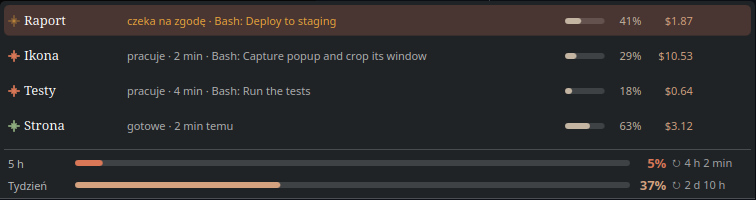
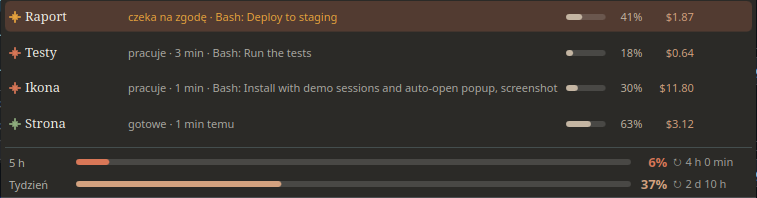
Paint the popup in the Claude style too
The session list gets the bar's warm background, drawn over the dialog's padding, and cream text whatever the Plasma theme.

diff --git a/plasmoid/contents/ui/main.qml b/plasmoid/contents/ui/main.qml
@@ -413,144 +413,162 @@ PlasmoidItem {
     }
 
     // One-line rows with fixed column widths: nothing moves on hover or on refresh.
-    fullRepresentation: ColumnLayout {
+    fullRepresentation: Item {
+        id: popup
         readonly property real unit: Kirigami.Units.gridUnit
         // As wide as the bar, but not narrower than the list needs nor wider than reads well.
         readonly property real fit: Math.max(unit * 25, Math.min(root.barWidth, unit * 44))
         Layout.minimumWidth: fit
         Layout.maximumWidth: fit
-        spacing: Kirigami.Units.smallSpacing
-
-        PlasmaComponents3.Label {
-            visible: root.listed.length === 0
-            text: T.tr("No active session")
-            opacity: 0.6
+        Layout.minimumHeight: list.implicitHeight
+        Layout.preferredHeight: list.implicitHeight
+        // The Claude style paints the popup like the bar, over the dialog's own padding, with
+        // cream text whatever the Plasma theme.
+        Binding { target: popup.Kirigami.Theme; property: "textColor"; value: root.ink; when: root.claude }
+        Rectangle {
+            anchors.fill: parent
+            anchors.margins: -Kirigami.Units.largeSpacing
+            visible: root.claude
+            color: "#2b2a27"
+            radius: Kirigami.Units.cornerRadius
         }
-        Repeater {
-            model: root.listed.length
-            delegate: MouseArea {
-                id: entry
-                required property int index
-                readonly property var item: root.listed[index] || ({})
-                readonly property bool current: !!root.lead && item.id === root.lead.id
-                readonly property real unit: Kirigami.Units.gridUnit
-                Layout.fillWidth: true
-                Layout.preferredHeight: unit * 1.7
-                readonly property bool pinned: root.picked !== "" && root.picked === item.id
-                hoverEnabled: true
-                cursorShape: Qt.PointingHandCursor
-                onClicked: root.openChat(item.id)
 
-                Rectangle {
-                    anchors.fill: parent
-                    radius: Kirigami.Units.cornerRadius
-                    color: root.claude ? root.sky : Kirigami.Theme.highlightColor
-                    opacity: entry.current ? 0.22 : entry.containsMouse ? 0.1 : 0
-                    border.width: entry.pinned ? 1 : 0
-                    border.color: root.claude ? root.sky : Kirigami.Theme.highlightColor
-                }
-                PlasmaComponents3.ToolTip { text: entry.item.project + " · " + root.modelName(entry.item.model); visible: entry.containsMouse && !edit.visible }
+        ColumnLayout {
+            id: list
+            anchors.fill: parent
+            spacing: Kirigami.Units.smallSpacing
 
-                RowLayout {
-                    anchors.fill: parent
-                    anchors.leftMargin: Kirigami.Units.smallSpacing; anchors.rightMargin: 2
-                    spacing: Kirigami.Units.smallSpacing
-                    Dot { mode: entry.item.state || "idle"; spark: root.claude; size: root.claude ? 12 : 9 }
-                    Item {
-                        Layout.preferredWidth: entry.unit * 5.5
-                        Layout.fillHeight: true
+            PlasmaComponents3.Label {
+                visible: root.listed.length === 0
+                text: T.tr("No active session")
+                opacity: 0.6
+            }
+            Repeater {
+                model: root.listed.length
+                delegate: MouseArea {
+                    id: entry
+                    required property int index
+                    readonly property var item: root.listed[index] || ({})
+                    readonly property bool current: !!root.lead && item.id === root.lead.id
+                    readonly property real unit: Kirigami.Units.gridUnit
+                    Layout.fillWidth: true
+                    Layout.preferredHeight: unit * 1.7
+                    readonly property bool pinned: root.picked !== "" && root.picked === item.id
+                    hoverEnabled: true
+                    cursorShape: Qt.PointingHandCursor
+                    onClicked: root.openChat(item.id)
+
+                    Rectangle {
+                        anchors.fill: parent
+                        radius: Kirigami.Units.cornerRadius
+                        color: root.claude ? root.sky : Kirigami.Theme.highlightColor
+                        opacity: entry.current ? 0.22 : entry.containsMouse ? 0.1 : 0
+                        border.width: entry.pinned ? 1 : 0
+                        border.color: root.claude ? root.sky : Kirigami.Theme.highlightColor
+                    }
+                    PlasmaComponents3.ToolTip { text: entry.item.project + " · " + root.modelName(entry.item.model); visible: entry.containsMouse && !edit.visible }
+
+                    RowLayout {
+                        anchors.fill: parent
+                        anchors.leftMargin: Kirigami.Units.smallSpacing; anchors.rightMargin: 2
+                        spacing: Kirigami.Units.smallSpacing
+                        Dot { mode: entry.item.state || "idle"; spark: root.claude; size: root.claude ? 12 : 9 }
+                        Item {
+                            Layout.preferredWidth: entry.unit * 5.5
+                            Layout.fillHeight: true
+                            PlasmaComponents3.Label {
+                                anchors.fill: parent
+                                visible: !edit.visible
+                                verticalAlignment: Text.AlignVCenter
+                                text: root.nameOf(entry.item)
+                                font.bold: !root.claude
+                                font.family: root.claude ? "serif" : Kirigami.Theme.defaultFont.family
+                                elide: Text.ElideRight
+                            }
+                            // Custom name: Enter saves, Esc cancels, an empty field goes back to the title's word.
+                            PlasmaComponents3.TextField {
+                                id: edit
+                                anchors.fill: parent
+                                anchors.topMargin: 1; anchors.bottomMargin: 1
+                                visible: false
+                                placeholderText: root.titleWord(entry.item.title) || entry.item.project || ""
+                                onAccepted: { root.rename(entry.item.id, text); visible = false; }
+                                Keys.onEscapePressed: visible = false
+                                onActiveFocusChanged: if (!activeFocus) visible = false
+                            }
+                        }
                         PlasmaComponents3.Label {
-                            anchors.fill: parent
-                            visible: !edit.visible
-                            verticalAlignment: Text.AlignVCenter
-                            text: root.nameOf(entry.item)
-                            font.bold: !root.claude
-                            font.family: root.claude ? "serif" : Kirigami.Theme.defaultFont.family
+                            Layout.fillWidth: true
+                            text: entry.item.state ? root.stateText(entry.item) : ""
                             elide: Text.ElideRight
+                            font: Kirigami.Theme.smallFont
+                            color: entry.item.state === "waiting" ? root.warn : Kirigami.Theme.textColor
+                            opacity: entry.item.state === "waiting" ? 1 : 0.65
                         }
-                        // Custom name: Enter saves, Esc cancels, an empty field goes back to the title's word.
-                        PlasmaComponents3.TextField {
-                            id: edit
-                            anchors.fill: parent
-                            anchors.topMargin: 1; anchors.bottomMargin: 1
-                            visible: false
-                            placeholderText: root.titleWord(entry.item.title) || entry.item.project || ""
-                            onAccepted: { root.rename(entry.item.id, text); visible = false; }
-                            Keys.onEscapePressed: visible = false
-                            onActiveFocusChanged: if (!activeFocus) visible = false
+                        Bar {
+                            Layout.preferredWidth: entry.unit * 2.2
+                            value: entry.item.context || 0
+                            color: root.level(entry.item.context || 0, root.dusk)
+                            opacity: entry.item.context === null ? 0 : 1
                         }
-                    }
-                    PlasmaComponents3.Label {
-                        Layout.fillWidth: true
-                        text: entry.item.state ? root.stateText(entry.item) : ""
-                        elide: Text.ElideRight
-                        font: Kirigami.Theme.smallFont
-                        color: entry.item.state === "waiting" ? root.warn : Kirigami.Theme.textColor
-                        opacity: entry.item.state === "waiting" ? 1 : 0.65
-                    }
-                    Bar {
-                        Layout.preferredWidth: entry.unit * 2.2
-                        value: entry.item.context || 0
-                        color: root.level(entry.item.context || 0, root.dusk)
-                        opacity: entry.item.context === null ? 0 : 1
-                    }
-                    PlasmaComponents3.Label {
-                        Layout.preferredWidth: entry.unit * 1.8
-                        horizontalAlignment: Text.AlignRight
-                        text: entry.item.context === null || entry.item.context === undefined ? "" : entry.item.context + "%"
-                        font: Kirigami.Theme.smallFont
-                        color: root.claude ? root.level(entry.item.context || 0, root.dusk) : Kirigami.Theme.textColor
-                    }
-                    PlasmaComponents3.Label {
-                        Layout.preferredWidth: entry.unit * 2.6
-                        horizontalAlignment: Text.AlignRight
-                        text: entry.item.cost ? root.usd(entry.item.cost) : ""
-                        font: Kirigami.Theme.smallFont
-                        color: root.claude ? root.sage : Kirigami.Theme.textColor
-                        opacity: root.claude ? 1 : 0.8
-                    }
-                    // Buttons stay in the layout and only fade in, so the row keeps its width.
-                    PlasmaComponents3.ToolButton {
-                        icon.name: "window-pin"
-                        display: PlasmaComponents3.AbstractButton.IconOnly
-                        text: entry.pinned ? T.tr("Unpin from the panel") : T.tr("Pin to the panel")
-                        checkable: true
-                        checked: entry.pinned
-                        Layout.preferredWidth: Kirigami.Units.iconSizes.small + Kirigami.Units.smallSpacing * 2
-                        Layout.preferredHeight: Layout.preferredWidth
-                        opacity: entry.pinned || entry.containsMouse || hovered ? 1 : 0
-                        onClicked: root.pick(entry.item.id)
-                        PlasmaComponents3.ToolTip { text: parent.text }
-                    }
-                    PlasmaComponents3.ToolButton {
-                        icon.name: "edit-rename"
-                        display: PlasmaComponents3.AbstractButton.IconOnly
-                        text: T.tr("Rename")
-                        Layout.preferredWidth: Kirigami.Units.iconSizes.small + Kirigami.Units.smallSpacing * 2
-                        Layout.preferredHeight: Layout.preferredWidth
-                        opacity: entry.containsMouse || hovered ? 1 : 0
-                        onClicked: { edit.text = root.names[entry.item.id] || ""; edit.visible = true; edit.forceActiveFocus(); }
+                        PlasmaComponents3.Label {
+                            Layout.preferredWidth: entry.unit * 1.8
+                            horizontalAlignment: Text.AlignRight
+                            text: entry.item.context === null || entry.item.context === undefined ? "" : entry.item.context + "%"
+                            font: Kirigami.Theme.smallFont
+                            color: root.claude ? root.level(entry.item.context || 0, root.dusk) : Kirigami.Theme.textColor
+                        }
+                        PlasmaComponents3.Label {
+                            Layout.preferredWidth: entry.unit * 2.6
+                            horizontalAlignment: Text.AlignRight
+                            text: entry.item.cost ? root.usd(entry.item.cost) : ""
+                            font: Kirigami.Theme.smallFont
+                            color: root.claude ? root.sage : Kirigami.Theme.textColor
+                            opacity: root.claude ? 1 : 0.8
+                        }
+                        // Buttons stay in the layout and only fade in, so the row keeps its width.
+                        PlasmaComponents3.ToolButton {
+                            icon.name: "window-pin"
+                            display: PlasmaComponents3.AbstractButton.IconOnly
+                            text: entry.pinned ? T.tr("Unpin from the panel") : T.tr("Pin to the panel")
+                            checkable: true
+                            checked: entry.pinned
+                            Layout.preferredWidth: Kirigami.Units.iconSizes.small + Kirigami.Units.smallSpacing * 2
+                            Layout.preferredHeight: Layout.preferredWidth
+                            opacity: entry.pinned || entry.containsMouse || hovered ? 1 : 0
+                            onClicked: root.pick(entry.item.id)
+                            PlasmaComponents3.ToolTip { text: parent.text }
+                        }
+                        PlasmaComponents3.ToolButton {
+                            icon.name: "edit-rename"
+                            display: PlasmaComponents3.AbstractButton.IconOnly
+                            text: T.tr("Rename")
+                            Layout.preferredWidth: Kirigami.Units.iconSizes.small + Kirigami.Units.smallSpacing * 2
+                            Layout.preferredHeight: Layout.preferredWidth
+                            opacity: entry.containsMouse || hovered ? 1 : 0
+                            onClicked: { edit.text = root.names[entry.item.id] || ""; edit.visible = true; edit.forceActiveFocus(); }
+                        }
                     }
                 }
             }
-        }
 
-        Kirigami.Separator { Layout.fillWidth: true; Layout.topMargin: Kirigami.Units.smallSpacing; visible: root.limits.length > 0 }
-        Repeater {
-            model: root.limits.length
-            delegate: RowLayout {
-                required property int index
-                readonly property var item: root.limits[index] || ({})
-                Layout.fillWidth: true
-                Layout.leftMargin: Kirigami.Units.smallSpacing; Layout.rightMargin: Kirigami.Units.smallSpacing
-                spacing: Kirigami.Units.smallSpacing
-                PlasmaComponents3.Label { text: root.limitName(item.kind || ""); Layout.preferredWidth: Kirigami.Units.gridUnit * 3.5; font: Kirigami.Theme.smallFont; opacity: 0.7 }
-                Bar { Layout.fillWidth: true; value: item.percent || 0; color: root.level(item.percent || 0, item.kind === "seven_day" ? root.sage : root.sky) }
-                PlasmaComponents3.Label {
-                    text: (item.percent || 0) + "%"; font.bold: true; Layout.preferredWidth: Kirigami.Units.gridUnit * 1.8; horizontalAlignment: Text.AlignRight
-                    color: root.claude ? root.level(item.percent || 0, item.kind === "seven_day" ? root.sage : root.sky) : Kirigami.Theme.textColor
+            Kirigami.Separator { Layout.fillWidth: true; Layout.topMargin: Kirigami.Units.smallSpacing; visible: root.limits.length > 0 }
+            Repeater {
+                model: root.limits.length
+                delegate: RowLayout {
+                    required property int index
+                    readonly property var item: root.limits[index] || ({})
+                    Layout.fillWidth: true
+                    Layout.leftMargin: Kirigami.Units.smallSpacing; Layout.rightMargin: Kirigami.Units.smallSpacing
+                    spacing: Kirigami.Units.smallSpacing
+                    PlasmaComponents3.Label { text: root.limitName(item.kind || ""); Layout.preferredWidth: Kirigami.Units.gridUnit * 3.5; font: Kirigami.Theme.smallFont; opacity: 0.7 }
+                    Bar { Layout.fillWidth: true; value: item.percent || 0; color: root.level(item.percent || 0, item.kind === "seven_day" ? root.sage : root.sky) }
+                    PlasmaComponents3.Label {
+                        text: (item.percent || 0) + "%"; font.bold: true; Layout.preferredWidth: Kirigami.Units.gridUnit * 1.8; horizontalAlignment: Text.AlignRight
+                        color: root.claude ? root.level(item.percent || 0, item.kind === "seven_day" ? root.sage : root.sky) : Kirigami.Theme.textColor
+                    }
+                    PlasmaComponents3.Label { text: root.resetIn(item); Layout.preferredWidth: Kirigami.Units.gridUnit * 4.2; font: Kirigami.Theme.smallFont; opacity: 0.6 }
                 }
-                PlasmaComponents3.Label { text: root.resetIn(item); Layout.preferredWidth: Kirigami.Units.gridUnit * 4.2; font: Kirigami.Theme.smallFont; opacity: 0.6 }
             }
         }
     }
